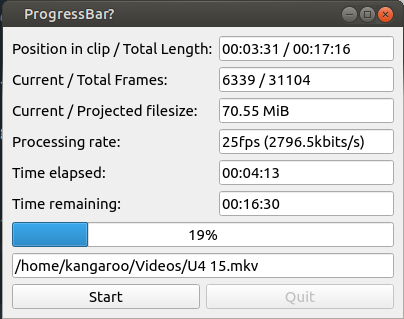
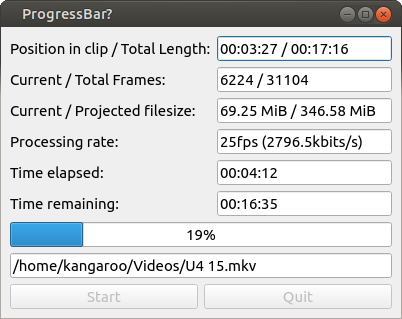
minor changes, updated readme

diff --git a/ffmpeg_progress/gui.py b/ffmpeg_progress/gui.py
@@ -25,13 +25,14 @@ from datetime import datetime
 
 from PySide6.QtWidgets import *
 from PySide6 import QtCore
-from toolbox import *
+from ffmpeg_progress.toolbox import *
 
 logger = logging.getLogger(__name__)
 
 i18n = {
     'drop_hint': "Drop any video file"
 }
+
 
 class ProgressWindow(QMainWindow):
     def __init__(self, parent=None):
@@ -42,7 +43,7 @@ class ProgressWindow(QMainWindow):
         self.file_info = None
         self.file_path = None
         # Window setup
-        self.setWindowTitle("ProgressBar?")
+        self.setWindowTitle("Progressbar from ffmpeg")
         self.setMinimumSize(400, 240)
         self.setWindowFlags(QtCore.Qt.WindowMinimizeButtonHint & QtCore.Qt.WindowMaximizeButtonHint)
         self.setAcceptDrops(True)
@@ -66,8 +67,10 @@ class ProgressWindow(QMainWindow):
         lay_dia.addRow(self.message)
         lay_2 = QHBoxLayout()
         self.btn_quit = QPushButton("Quit")
+        self.btn_abort = QPushButton("Abort", Disabled=True)
         self.btn_start = QPushButton("Start", Disabled=True)
         lay_2.addWidget(self.btn_start)
+        lay_2.addWidget(self.btn_abort)
         lay_2.addWidget(self.btn_quit)
         lay_1 = QVBoxLayout()
         lay_1.addLayout(lay_dia)
@@ -79,9 +82,10 @@ class ProgressWindow(QMainWindow):
 
         self.btn_quit.clicked.connect(self.close)
         self.btn_start.clicked.connect(self.start_process)
+        self.btn_abort.clicked.connect(self.abort_process)
 
     def start_process(self):
-        if self.proc is None:
+        if self.proc is None and self.file_path is not None:
             self.file_info = extract_probe(ffmpeg.probe(self.file_path))
             self.file_info['start_time'] = datetime.now()
             self.proc = QtCore.QProcess()
@@ -89,22 +93,36 @@ class ProgressWindow(QMainWindow):
             self.proc.readyReadStandardError.connect(self.stderr_out_process)
             self.proc.readyReadStandardOutput.connect(self.stdout_process)
             self.proc.start("ffmpeg", ["-y", "-i", self.file_path, "-c:v", "libx264", "-crf", "22.5", "output.mkv"])
-            self.btn_quit.setDisabled(True)
+            # self.btn_quit.setDisabled(True)
             self.btn_start.setDisabled(True)
+            self.btn_abort.setDisabled(False)
             self.status_bar.setValue(0)
+            
+    def abort_process(self):
+        if self.proc:
+            self.proc.terminate()
+            # all the other stuff should be handled by the signals
 
     def stderr_out_process(self):
         data = self.proc.readAllStandardError()
         stderr = bytes(data).decode("utf8")
         if stderr[0:5] == "frame":
             if status := regex_ffmpeg_encoding(stderr):
+                # averaging fps
+                if 'avg_fps' in self.file_info:
+                    self.file_info['avg_enc'] = (self.file_info['avg_enc']+status['fps'])/2
+                else:
+                    self.file_info['avg_enc'] = status['fps']
                 fps_delta = self.file_info['est_frames'] - status['frames']
-                self.status_time.setText(f"{format_timedelta(status['elapsed'])} / {format_timedelta(self.file_info['time_length'])}")
+                est_size = ((status['file_size']*1024)/status['elapsed'].seconds) * \
+                            self.file_info['time_length'].seconds
+                self.status_time.setText(f"{format_timedelta(status['elapsed'])} / "
+                                         f"{format_timedelta(self.file_info['time_length'])}")
                 self.frames.setText(f"{status['frames']} / {self.file_info['est_frames']}")
-                self.filesize.setText(f"{sizeof_fmt(status['file_size']*1024)} / ?")  # TODO: math for file size that might be
+                self.filesize.setText(f"{sizeof_fmt(status['file_size']*1024)} / {sizeof_fmt(est_size)}")
                 self.process_rate.setText(f"{status['fps']}fps ({status['enc_rate']}{status['enc_unit']})")
                 self.time_elapsed.setText(f"{format_timedelta(datetime.now()-self.file_info['start_time'])}")
-                self.time_estimated.setText(format_timedelta(timedelta(seconds=fps_delta/status['fps'])))
+                self.time_estimated.setText(format_timedelta(timedelta(seconds=fps_delta/self.file_info['avg_enc']))+f" {self.file_info['avg_enc']}")
                 self.status_bar.setValue(round(status['frames']/self.file_info['est_frames']*1000))
 
     def stdout_process(self):
@@ -114,6 +132,7 @@ class ProgressWindow(QMainWindow):
         print(stdout)
 
     def regular_end_process(self):
+        # TODO: handle force close, other cases like crashs
         self.proc = None
         # i am cheating here and just set everything to 100% without actually having anything
         self.status_time.setText(f"{format_timedelta(self.file_info['time_length'])} / {format_timedelta(self.file_info['time_length'])}")
@@ -124,8 +143,15 @@ class ProgressWindow(QMainWindow):
         self.status_bar.setValue(1000)
         # reset interface
         self.file_path = None
-        self.btn_quit.setDisabled(False)
+        # self.btn_quit.setDisabled(False)
+        self.btn_start.setDisabled(True)
+        self.btn_abort.setDisabled(True)
         self.message.setText(i18n['drop_hint'])
+
+    def close(self):
+        if self.proc:
+            self.proc.terminate()  # SIGTERM, .kill would be SIGKILL
+        super().close()
 
     def dragEnterEvent(self, e):
         if e.mimeData().hasUrls():
@@ -138,3 +164,4 @@ class ProgressWindow(QMainWindow):
                 self.message.setText(file_name)
                 self.file_path = file_name
                 self.btn_start.setDisabled(False)
+

diff --git a/ffmpeg_progress/main.py b/ffmpeg_progress/main.py
@@ -1,6 +1,28 @@
+#!/usr/bin/env python
+# coding: utf-8
+
+# Copyright 2022 by BurnoutDV, <development@burnoutdv.com>
+#
+# This file is part of ffmpeg_progress.
+#
+# ffmpeg_progress is free software: you can redistribute
+# it and/or modify it under the terms of the GNU General Public
+# License as published by the Free Software Foundation, either
+# version 3 of the License, or (at your option) any later version.
+#
+# ffmpeg_progress is distributed in the hope that it will
+# be useful, but WITHOUT ANY WARRANTY; without even the implied warranty
+# of MERCHANTABILITY or FITNESS FOR A PARTICULAR PURPOSE.  See the
+# GNU General Public License for more details.
+#
+# You should have received a copy of the GNU General Public License
+# along with this program.  If not, see <http://www.gnu.org/licenses/>.
+#
+# @license GPL-3.0-only <https://www.gnu.org/licenses/gpl-3.0.en.html>
+
 import sys
 
-from gui import *
+from ffmpeg_progress.gui import *
 
 if __name__ == "__main__":
     thisApp = QApplication(sys.argv)
@@ -10,3 +32,4 @@ if __name__ == "__main__":
         sys.exit(thisApp.exec())
     except KeyboardInterrupt:
         sys.exit()
+

diff --git a/ffmpeg_progress/toolbox.py b/ffmpeg_progress/toolbox.py
@@ -19,11 +19,13 @@
 # along with this program.  If not, see <http://www.gnu.org/licenses/>.
 #
 # @license GPL-3.0-only <https://www.gnu.org/licenses/gpl-3.0.en.html>
+
 import logging
 import re
 from datetime import timedelta
 
 logger = logging.getLogger(__name__)
+
 
 def str_to_timedelta(delta_str: str) -> timedelta:
     """

diff --git a/ffmpeg_progress/__init__.py b/ffmpeg_progress/__init__.py
@@ -1,1 +1,2 @@
-import *
+from . import gui
+from . import toolbox

diff --git a/README.md b/README.md
@@ -16,14 +16,35 @@ and the knowledge that the progress information of the ffmpeg library is on stde
 
 ## Requirements
 
-For its simple design this leverages quite some heavy libraries, namely `PySide6`, if you replace it 1:1 by `PySide2` it should work exactly the same as i did not utilize any new features. Further i use the handy [ffmpeg-python](https://github.com/kkroening/ffmpeg-python) hooks just to completly ignore the ffmpeg part and only take the tiny part that is `ffprobe` because i did not saw any reason to do my own handling of that output to achieve what others did before me.
+For its simple design this leverages quite some heavy libraries, namely `PySide6`, if you replace it 1:1 by `PySide2` it should work exactly the same as i did not utilize any new features. Further i use the handy [ffmpeg-python](https://github.com/kkroening/ffmpeg-python) hooks just to completely ignore the ffmpeg part and only take the tiny part that is `ffprobe` because i did not saw any reason to do my own handling of that output to achieve what others did before me.
 
+## Installation
 
+1. clone repo `git clone https://github.com/BurnoutDV/pyside6-ffmpeg-progress`
+2. setup venv `cd pyside6-ffmpeg-progress` && `python -m venv .venv`
+3. install local package `python -m pip install .`
+4. run `python -m pyside6-ffmpeg-progress.main`
 
-TODO: write more text here Alan
+## How it works
 
+Upon pushing the start button `ffprobe` is used to get the basic data and then the actual program begins to work, *QProcess* is doing almost all of the work as the signaling system of *QT* does almost everything for us. We bind some functions some functions to *stdOUT* and *stdERR*, for this specific instance of *ffmpeg* only the *stdERR* pipe is actually of relevance. For this simple example we need to transform the content of the *ffmpeg* output, usually this is first the *ffprobe* data once more, some other statistics we don't care at all about. There we filter for lines that start with `frame` which describes the statistic data we get around all three seconds. I use *regex* to extract some data by capturing-groups (*i am quite unsure if it would be better to use separate regex searches for each value*):
+```regex
+^(frame=\s*)([0-9]+)\s+
+(fps=)\s*([0-9]+)\s+
+(q=)\s*([0-9]*[.]?[0-9]+)\s+
+(size=)\s*([0-9]+)..\s+
+(time=)\s*([0-9][0-9]:[0-9][0-9]:[0-9][0-9][.][0-9][0-9])\s+
+(bitrate=)\s*([0-9]*[.]?[0-9]+)(kbits\/s)\s+
+(speed=)\s*([0-9]*[.]?[0-9]+)x\s*
+```
 
-
-shamelessly stolen design:
+With this in mind we have almost everything we need, unfortunatly we don't know how many frames the video actually has and frames is what we use to calculate the progress bar (opposed to the time). Apparently its not entirely trivial to get the number of frames in a given video track therefore we do a good estimate: `fps*lenght_in_seconds`. All this gives us the following display (design stolen from MeGUI):
 
 ![progress](./README/progress.png)
+
+Some caveats:
+
+* the file size *ffmpeg* gives is in kbyte not in byte -> `*1024`
+* i decided to use timedelta for the storage of time units..that class has some problems with the access of its time (it stores time only as days and seconds, nothing inbetween)
+* our estimated file size is highly dependent on the content, my typical content is gameplay, if the first 5 minutes are static menus followed by fast actions scenes you might as well ignore that projection.
+* same is true for the remaining time, here i just use the current fps rate and the remaining frames, although we could use historical average data for that..and i did that, still, only a rough approximation
